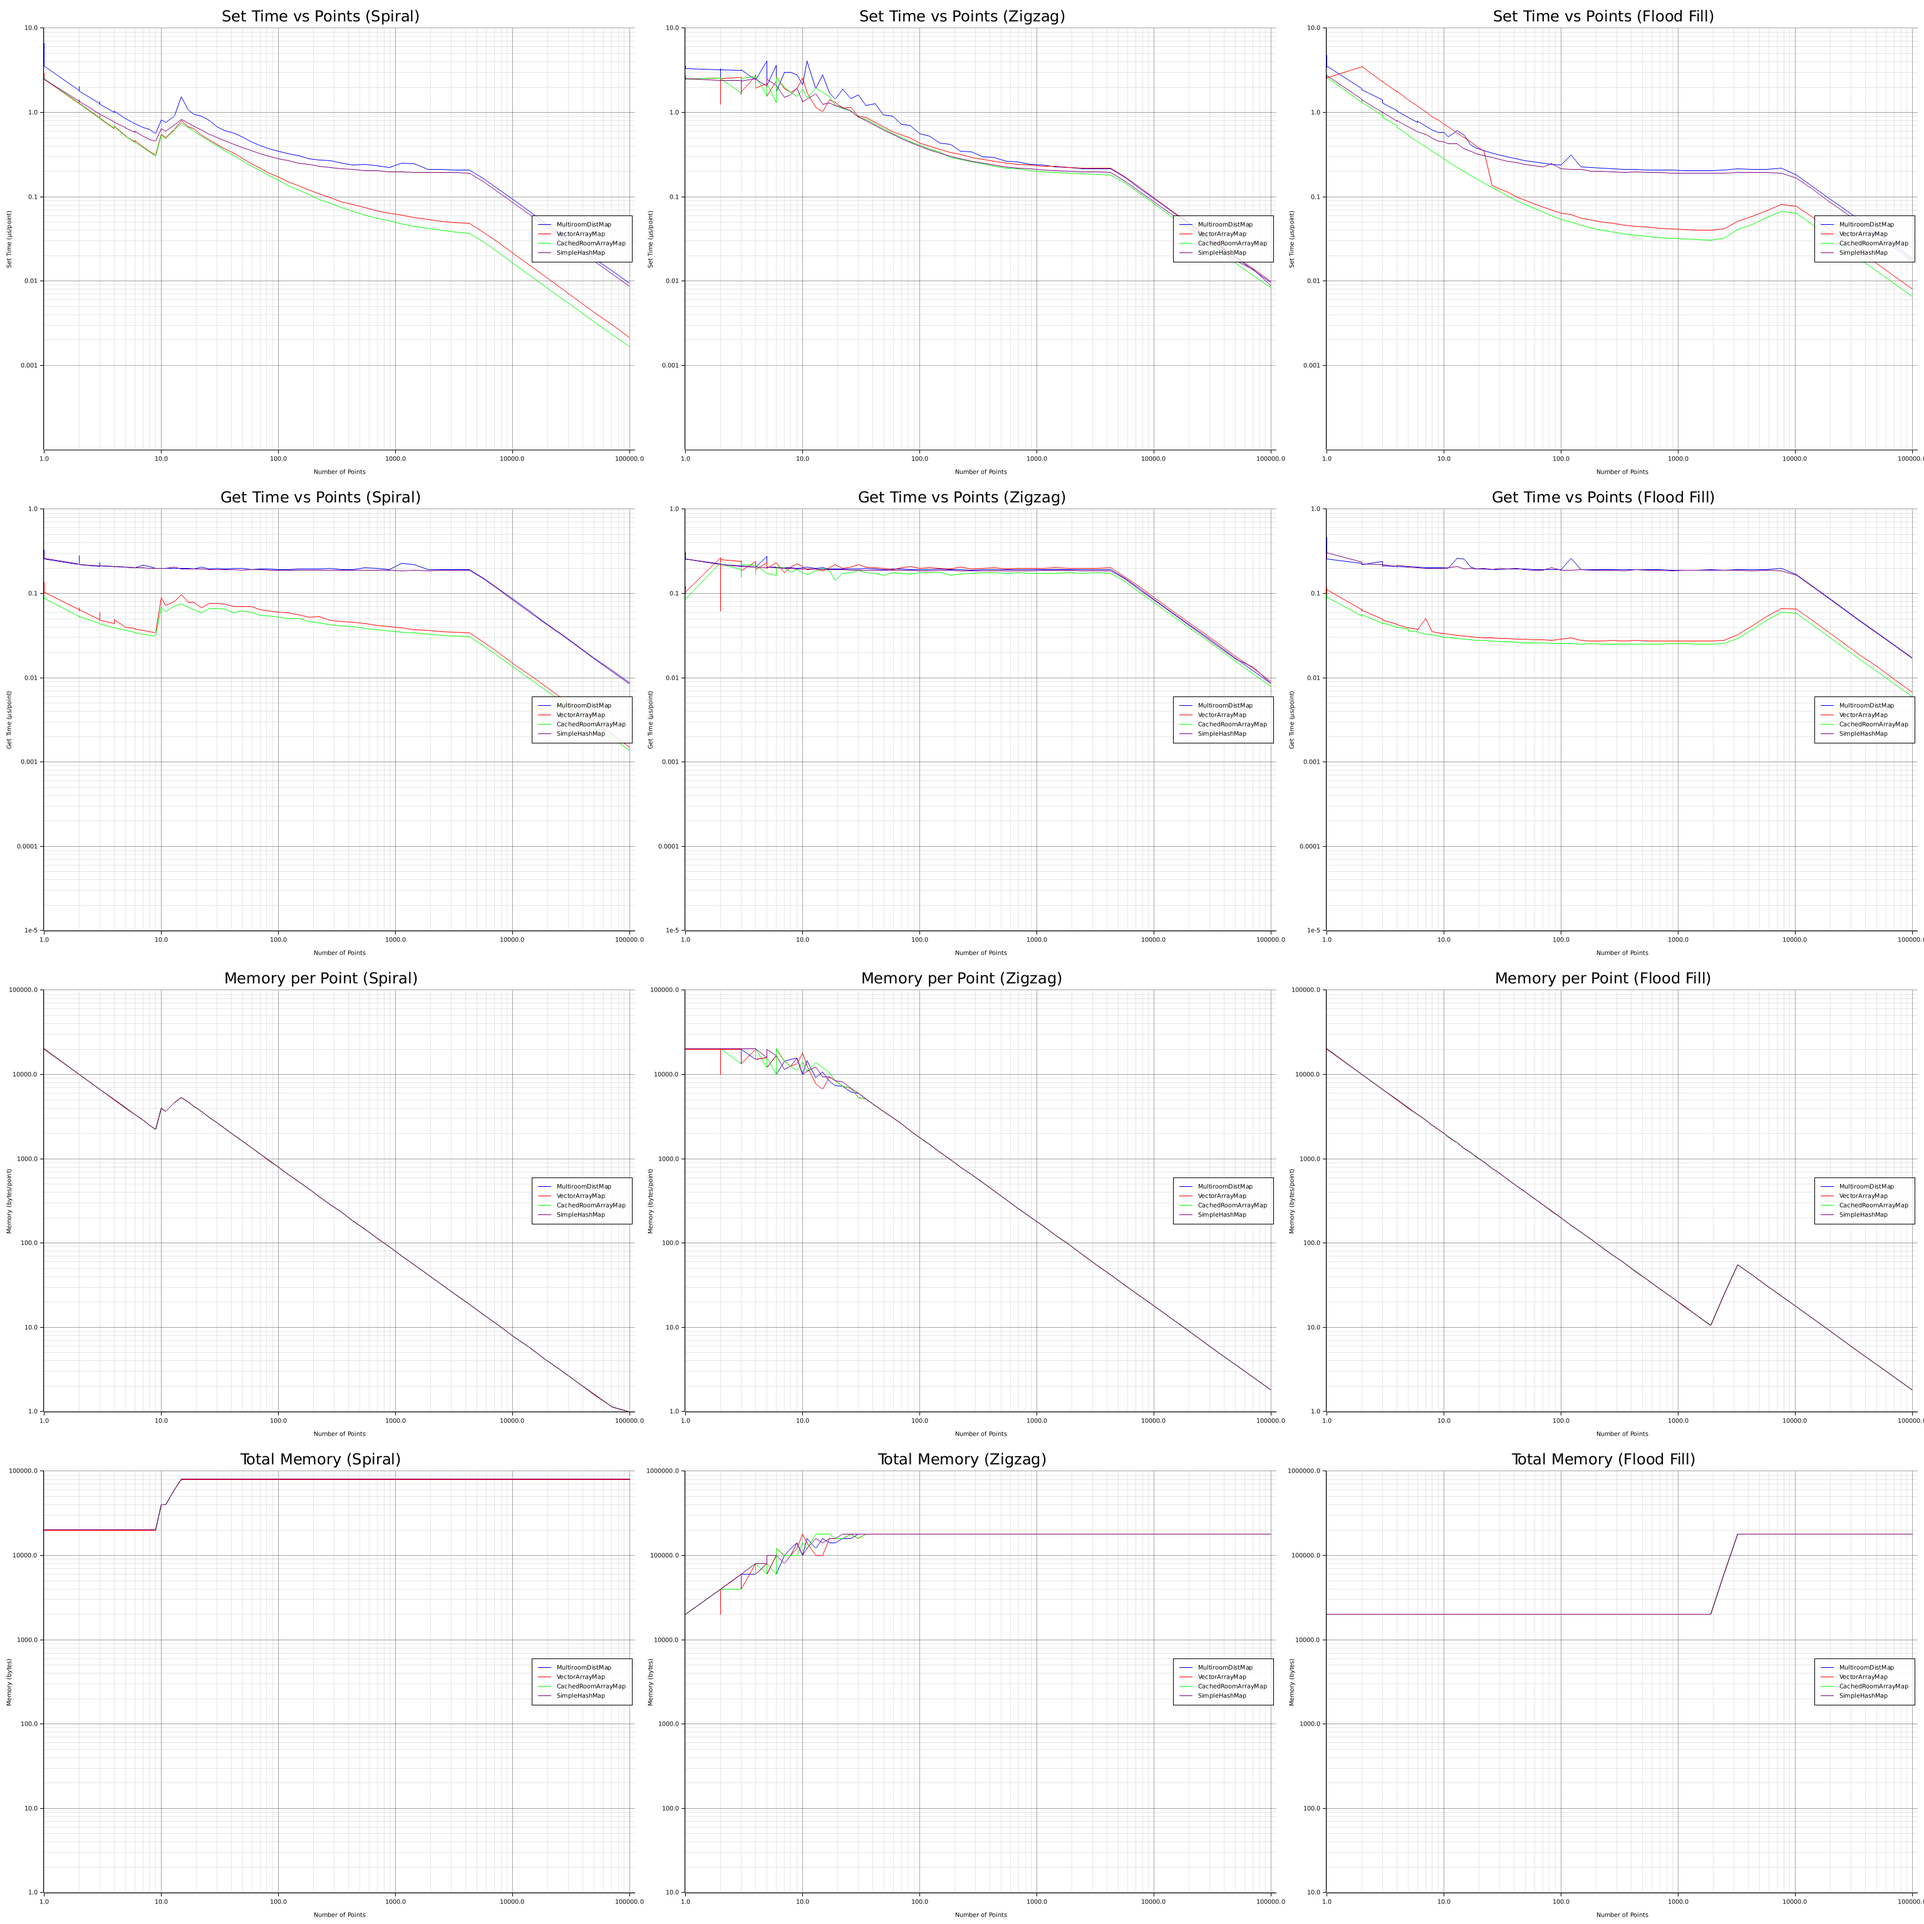
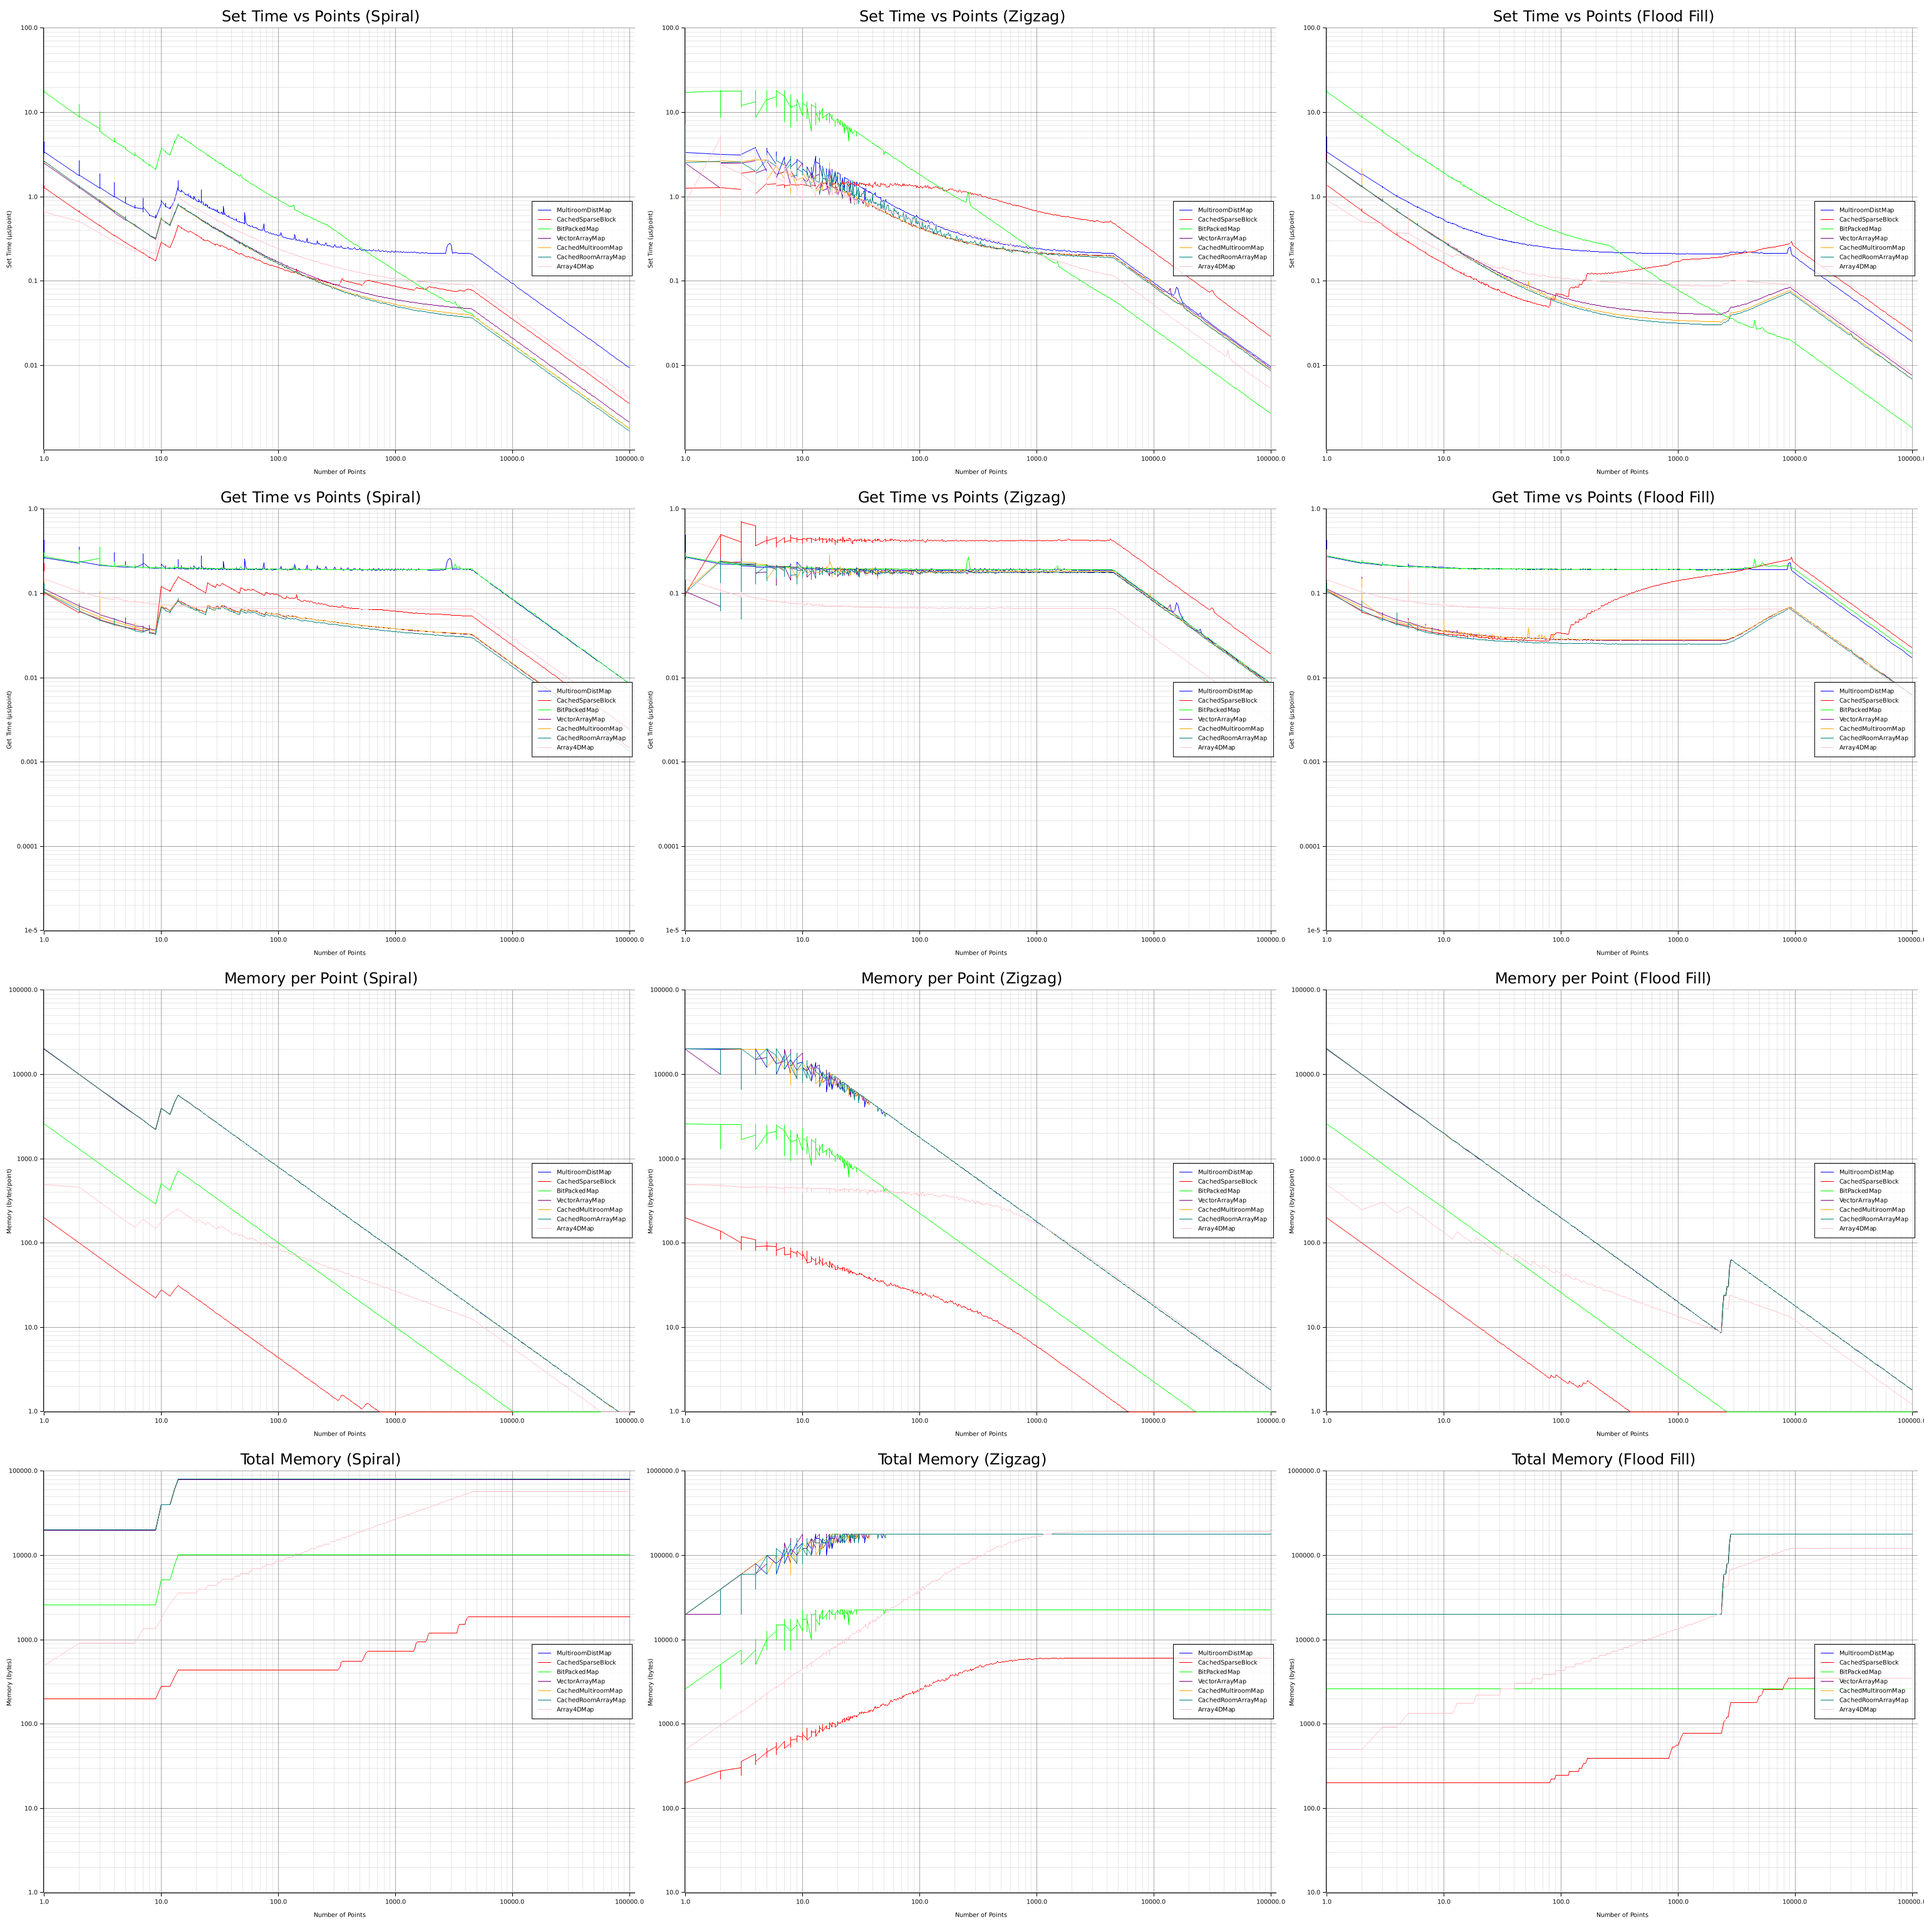
add results

diff --git a/lib/datatypes/position_map/benchmark.rs b/lib/datatypes/position_map/benchmark.rs
@@ -14,38 +14,42 @@ const IMPLEMENTATIONS: &[(&str, bool)] = &[
     ("MultiroomDistMap", true),  // Always keep this one enabled
 
     // massive memory usage
-    ("GlobalArrayMap", true),
-    ("ZOrderGlobalMap", true),
+    // ("GlobalArrayMap", true),
+    // ("ZOrderGlobalMap", true),
 
     // very slow
-    ("RleZOrderMap", true),
-    ("CachedRunLengthMap", true),
-    ("RunLengthDeltaMap", true),
+    // ("RleZOrderMap", true),
+    // ("CachedRunLengthMap", true),
+    // ("RunLengthDeltaMap", true),
 
 
     // pretty slow
-    ("HashGridMap", true),
-    ("ChunkedZOrderMap", true),
-    ("QuadtreeMap", true),
-    ("SparseBlockMap", true),
-    ("PrefixTreeMap", true),
+    // ("HashGridMap", true),
+    // ("ChunkedZOrderMap", true),
+    // ("QuadtreeMap", true),
+    // ("SparseBlockMap", true),
+    // ("PrefixTreeMap", true),
+    // ("DenseHashMap", true),
 
-    ("HierarchGridMap", true),
-    ("RoomArrayMap", true),
-    ("VectorArrayMap", true),
-    ("Array4DMap", true),
-    ("FlatArrayMap", true),
-    ("DenseHashMap", true),
+    // middlin
+    // ("HierarchGridMap", true),
+    // ("RoomArrayMap", true),
+    // ("FlatArrayMap", true),
+    // ("SimpleHashMap", true),
+
+    // good memeory
+    ("CachedSparseBlock", true), // ?
     ("BitPackedMap", true),
+    // fast and ok memory
+    ("VectorArrayMap", true),
     ("CachedMultiroomMap", true),
     ("CachedRoomArrayMap", true),
-    ("CachedSparseBlock", true),
-    ("SimpleHashMap", true),
+    ("Array4DMap", true),
 ];
 
 const MIN_POINTS: usize = 1;
-const MAX_POINTS: usize = 10_000;
-const NUM_TEST_POINTS: usize = 25;
+const MAX_POINTS: usize = 100_000;
+const NUM_TEST_POINTS: usize = 1000;
 
 #[cfg(test)]
 mod tests {
@@ -93,20 +97,20 @@ mod tests {
         }
     }
 
-    #[test]
-    fn benchmark_single_room() {
-        run_benchmark_for_size(0, "Single Room (1x1 rooms)");
-    }
+    // #[test]
+    // fn benchmark_single_room() {
+    //     run_benchmark_for_size(0, "Single Room (1x1 rooms)");
+    // }
 
-    #[test]
-    fn benchmark_small() {
-        run_benchmark_for_size(1, "Small (3x3 rooms)");
-    }
+    // #[test]
+    // fn benchmark_small() {
+    //     run_benchmark_for_size(1, "Small (3x3 rooms)");
+    // }
 
-    #[test]
-    fn benchmark_medium() {
-        run_benchmark_for_size(3, "Medium (7x7 rooms)");
-    }
+    // #[test]
+    // fn benchmark_medium() {
+    //     run_benchmark_for_size(3, "Medium (7x7 rooms)");
+    // }
 
     #[test]
     fn benchmark_large() {
